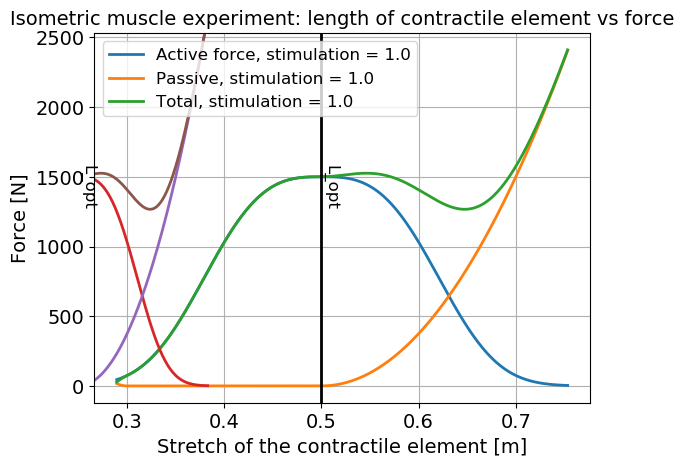
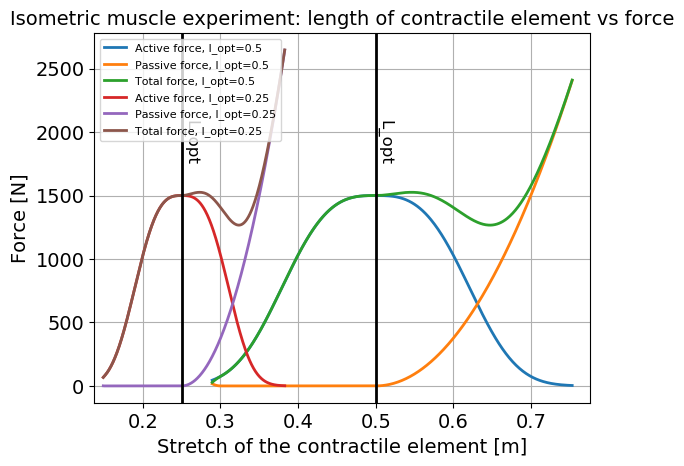
Upgraded figures for 1c

diff --git a/LAB05/Python/exercise1.py b/LAB05/Python/exercise1.py
@@ -121,7 +121,7 @@ def add_l_opt_marker(handle, l_opt=None):
         l_opt = muscle_parameters.l_opt
     plt.figure(handle)
     plt.axvline(x=l_opt, color="k")
-    plt.text(l_opt+0.001, 1500, "L_opt", rotation=-90, color="k")
+    plt.text(l_opt+0.001, 2000, "L_opt", rotation=-90, color="k")
 
 
 def get_common_axis_limits(handles):
@@ -138,7 +138,6 @@ def get_common_axis_limits(handles):
         x_max = max(x_max, x_top)
         y_min = min(y_min, y_bot)
         y_max = max(y_max, y_top)
-
     return x_min, x_max, y_min, y_max
 
 
@@ -275,7 +274,8 @@ def exercise1c(time_param):
     handles_long = ["1_c_lce_iso_long", "1_c_lsl_iso_long", "1_c_lmtc_long"]
     handles_small = ["1_c_lce_iso_small", "1_c_lsl_iso_small", "1_c_lmtc_small"]
     handles_merged = ["1_c_lce_iso_merged", "1_c_lsl_iso_merged", "1_c_lmtc_merged"]
-
+    merged_legends = ["Active force, l_opt=0.5", "Passive force, l_opt=0.5", "Total force, l_opt=0.5", "_nolegend_",
+                      "Active force, l_opt=0.25", "Passive force, l_opt=0.25", "Total force, l_opt=0.25"]
     active_force_long, passive_force_long, total_force_long, l_ce_long, l_slack_long, l_mtc_long = \
         iso_experiment(stim, ce_stretch_max, ce_stretch_min, nb_pts, time_param, l_opt_long)
     active_force_small, passive_force_small, total_force_small, l_ce_small, l_slack_small, l_mtc_small = \
@@ -292,13 +292,14 @@ def exercise1c(time_param):
                         handle=handles_merged, l_opt=l_opt_long)
     plot_isometric_data(active_force_small, passive_force_small, total_force_small, l_ce_small, l_slack_small,
                         l_mtc_small, handle=handles_merged, l_opt=l_opt_small)
-    for graphs in zip(handles_long, handles_small, handles_merged):
-        x_min, x_max, y_min, y_max = get_common_axis_limits(graphs[0:1])
-        plt.figure(graphs[2])
-        print(x_min, x_max, y_min, y_max)
+
+    for handle_long, handle_small, handle_merged in zip(handles_long, handles_small, handles_merged):
+        x_min, x_max, y_min, y_max = get_common_axis_limits([handle_small, handle_long])
+        plt.figure(handle_merged)
         plt.xlim(x_min, x_max)
         plt.ylim(y_min, y_max)
         plt.grid()
+        plt.legend(merged_legends, prop={'size': 8})
 
 
 def exercise1d():
